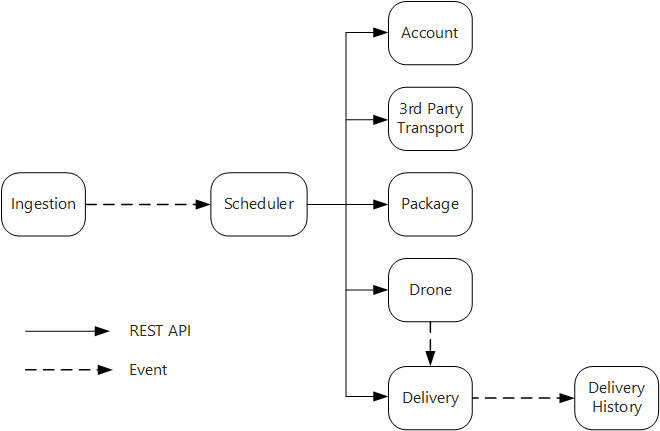
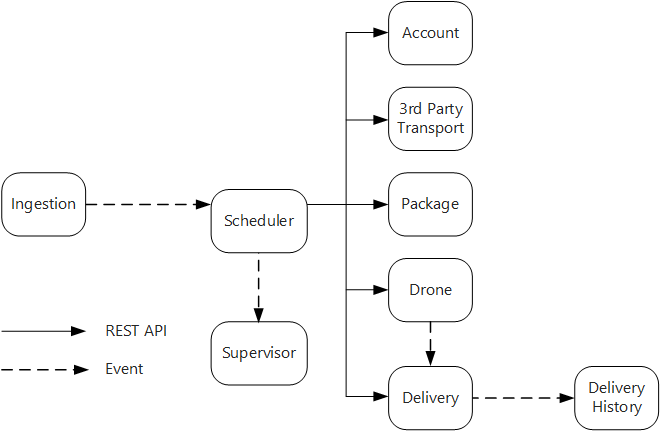
edits

diff --git a/docs/microservices/interservice-communication.md b/docs/microservices/interservice-communication.md
@@ -66,15 +66,15 @@ With these considerations in mind, the development team made the following desig
 
 - The Ingestion service uses Event Hubs to send asynchronous messages to the Scheduler service. Asynchronous messages are necessary to implement the load-leveling that is required for ingestion. For details on how the Ingestion and Scheduler services interact, see [Ingestion and workflow][ingestion-workflow].
 
-- The Account, Delivery, Package, Drone, and Third-party Transport services all expose internal REST APIs. The Scheduler service calls these APIs to carry out a user request. One reason to use synchronous APIs is that the Scheduler needs to get a response from the downstream services. A failure in any of the downstream services means the entire operation failed. However, a potential issue is the amount of latency that is introduced by calling the backend services. Later, we discuss the workflow in more detail in the chapter [Ingestion and workflow][ingestion-workflow].
+- The Account, Delivery, Package, Drone, and Third-party Transport services all expose internal REST APIs. The Scheduler service calls these APIs to carry out a user request. One reason to use synchronous APIs is that the Scheduler needs to get a response from the downstream services. A failure in any of the downstream services means the entire operation failed. However, a potential issue is the amount of latency that is introduced by calling the backend services. 
 
 - The Delivery service also exposes a public API that clients can use to get the status of a delivery. In the chapter [API gateway](./gateway.md), we discuss using an API gateway can hide the underlying services from the client, so the client doesn't need to know which services expose which APIs. 
 
 - The Drone service sends events about the drone's current location and status. The Delivery service listens to these events, in order to track the status of a delivery.
 
-- The Delivery service sends delivery status events, including Created, Rescheduled, InTransit, and DeliveryComplete. Any interested service can subscribe to these updates. In the current design, the Delivery Service is the only subscriber, but it's possible that other services might need to consume these events. For example, they might be used for a dashboard or real-time analytics service. Another reason to use events is that it removes the consumers from the workflow path, meaning the Delivery Scheduler does not have to wait on them.
+- The Delivery service sends delivery status events, including DeliveryCreated, DeliveryRescheduled, DeliveryInTransit, and DeliveryComplete. Any interested service can subscribe to these updates. In the current design, the Delivery History service is the only subscriber, but it's possible that other services might need to consume these events. For example, they might be used for a dashboard or real-time analytics service. Another reason to use events is that it removes the consumers from the workflow path, meaning the Delivery Scheduler does not have to wait on them.
 
-- The Delivery History service subscribes to the delivery events and stores the history of every delivery. 
+- If any of the downstream services fails during a transaction, the Scheduler service sends an asynchronous message to the Supervisor, so that the Supervisor can schedule compensating transactions, as described in the chapter [Ingestion and workflow][ingestion-workflow].   
 
 ![](./images/drone-communication.png)
 

diff --git a/docs/microservices/ci-cd.md b/docs/microservices/ci-cd.md
@@ -31,7 +31,7 @@ In the context of Kubernetes and microservices, CI applies to building the conta
  
 These challenges reflect a fundamental tension. On the one hand, teams need to work as independently as possible. On the other hand, some coordination is needed so that a single person can do tasks like running an integration test, redeploying the entire solution to a new cluster, or rolling back a bad update. 
  
-## Approaches to CI/CD
+## CI/CD approaches for microservices
 
 It's a good practice for every service team to containerize their build environment. This container should have all of the build tools necessary to build the code artifacts for their service. Often you can find an official Docker image for your language and framework. Then you can use `docker run` or Docker Compose to run the build. 
 
@@ -52,7 +52,6 @@ When the image is ready to go into production, update the deployment files as ne
 You may want to create a separate container registry for production, that will only hold known-good images. If you combine this approach with semantic versioning, then you can always find the last-known-good image in case you need to roll back. 
 
 You may want to define a set of organization-wide conventions for image labels and versioning, and a set of naming conventions for resources deployed to the cluster (pods, services, and so on). That can make it easier to diagnose deployment issues.  
-
  
 
 

diff --git a/docs/microservices/data-considerations.md b/docs/microservices/data-considerations.md
@@ -42,7 +42,7 @@ There is no single approach that's correct in all cases, but here are some gener
  
 - At high scale, events can become a bottleneck on the system, so consider using aggregation or batching to reduce the total load. 
 
-## Data storage in the Drone Delivery application
+## Drone Delivery: Choosing the data stores 
 
 Even with only a few services, the Shipping bounded context illustrates several of the points discussed in this section. 
 
@@ -59,8 +59,6 @@ The various backend services care about different subsets of the information the
 ### Delivery service
 
 It's expected that users will frequently check the status of a delivery while they are waiting for their package. Therefore, the Delivery service requires a data store that emphasizes retrieval speed over long-term storage. Also, the Delivery service does not perform any complex queries or analysis, it simply fetches the latest status for a given delivery. For these reasons, the Delivery service team chose Azure Redis Cache.
-
-
 
 ### Delivery History service
 

diff --git a/docs/microservices/tactical-ddd.md b/docs/microservices/tactical-ddd.md
@@ -106,7 +106,7 @@ What is the right size for a microservice? "Not too big and not too small" &mdas
 
 Above all, it's important to be pragmatic, and remember that domain-driven design is an iterative process. When in doubt, start with more coarse-grained microservices. Splitting a microservice into two smaller services is a easier than refactoring functionality across several existing microservices.
     
-## Drone Delivery: Defining the microservice boundaries
+## Drone Delivery: Defining the microservices
 
 Recall that the development team had identified the following aggregates: Delivery, Package, Drone, and Account. The first two are part of the Shipping bounded context, while Drone and Account belong to other bounded contexts.
 

diff --git a/docs/microservices/logging-monitoring.md b/docs/microservices/logging-monitoring.md
@@ -20,7 +20,7 @@ You can categorize these into metrics and text-based logs.
 
 *Logs* are records of events that occur while the application is running. They include things like application logs (trace statements) or web server logs. Logs are primarily useful for forensics and root cause analysis. 
 
-## Considerations for logging and monitoring in a microservices architecture
+## Considerations
 
 The article [Monitoring and diagnostics](../best-practices/monitoring.md) describes general best practices for monitoring an application. Here are some particular things to think about in the context of a microservices architecture.
 

diff --git a/docs/microservices/api-design.md b/docs/microservices/api-design.md
@@ -49,7 +49,7 @@ Our baseline recommendation is to choose REST over API unless you need the perfo
 
 However, if you choose REST over HTTP, you should do performance and load testing early in the development process, to validate whether it performs well enough for your scenario.
 
-## API design considerations
+## RESTful API design
 
 There are many resources for designing RESTful APIs. Here are some that you might find helpful:
 
